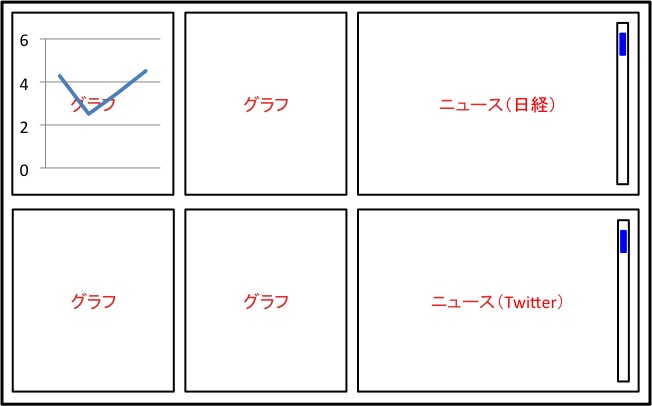
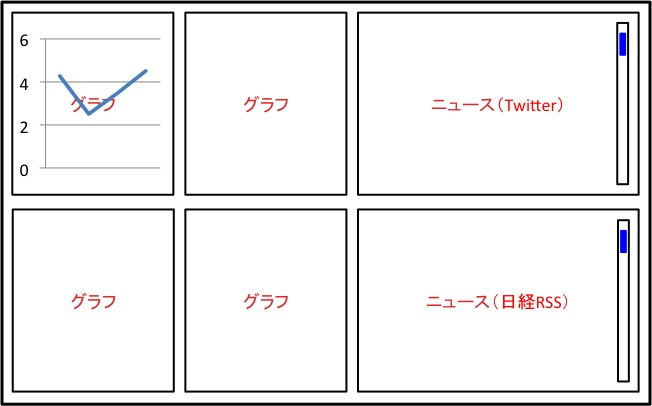
modify spec

Changed region(s): [[0.6748, 0.7094, 0.8896, 0.7685], [0.6442, 0.2365, 0.8589, 0.2956]]

diff --git a/regulus/sphinx/internal.rst b/regulus/sphinx/internal.rst
@@ -3,8 +3,8 @@
 
 - システムの詳細な振る舞いと構造を記載する
 
-   - `振る舞い <http://localhost:8080/regulus_docs/internal.html#id2>`__
-   - `構造 <http://localhost:8080/regulus_docs/internal.html#id5>`__
+   - `振る舞い <http://localhost/regulus_docs/internal.html#id2>`__
+   - `構造 <http://localhost/regulus_docs/internal.html#id5>`__
 
 振る舞い
 --------
@@ -13,7 +13,6 @@
 ^^^^^^^^^^^^^^^^^^^^^^^^
 
 シーケンス図
-            
 
 .. image:: images/seq_graph_int.jpg
    :alt: シーケンス図(通貨の価格変動を確認する)
@@ -22,7 +21,7 @@
 
    1. アクセスを受けたConfirmation\_viewがConfirmation\_Controllerにアクセスの受信を通知する
    2. 受信したConfirmation\_Controllerが通貨取得を開始する
-   3. Currencyオブジェクトを取得して返す
+   3. Currencyオブジェクトの配列を取得して返す
    4. ビューにグラフを表示する
    5. 以降は定期的に通貨情報の取得を繰り返す
 
@@ -30,7 +29,6 @@
 ^^^^^^^^^^^^^^^^^^^^^^^^^^^^
 
 シーケンス図
-            
 
 .. image:: images/seq_info_int.jpg
    :alt: シーケンス図(変動に関連する情報を取得する)
@@ -48,7 +46,6 @@
 ----
 
 クラス図
-        
 
 .. image:: images/class_int.jpg
    :alt: クラス図

diff --git a/regulus/sphinx/external.rst b/regulus/sphinx/external.rst
@@ -3,8 +3,8 @@
 
 -  システムの振る舞いと構造を記載する
 
-   -  `振る舞い <http://localhost:8080/regulus_docs/external.html#id2>`__
-   -  `構造 <http://localhost:8080/regulus_docs/external.html#id5>`__
+   -  `振る舞い <http://localhost/regulus_docs/external.html#id2>`__
+   -  `構造 <http://localhost/regulus_docs/external.html#id5>`__
 
 振る舞い
 --------
@@ -20,7 +20,7 @@
 - 利用者がWebページにアクセスしてからグラフを確認するまでの流れ
 
    1. ブラウザにURLを入力してシステムにアクセス
-   2. システムがDBから通貨情報を取得する
+   2. システムがDBから通貨情報を取得
    3. 取得した通貨情報からグラフを作成
    4. 作成したグラフをブラウザに表示
 
@@ -65,13 +65,9 @@
 
 - Controller
 
-   - 通貨管理
+   - コントローラ
 
-      - FXサイトから取得した通貨情報を管理するためのクラス
-
-   - 情報管理
-
-      - Twitterや日経から取得した情報を管理するためのクラス
+      - 必要な通貨情報，ツイート，記事を取得してブラウザ送信するするためのクラス
 
 - Model
 

diff --git a/regulus/sphinx/interface.rst b/regulus/sphinx/interface.rst
@@ -12,19 +12,19 @@
 機能
 ----
 
--  ブラウザの左側に４種類の通貨のグラフが表示される
+-  ブラウザの左側に３種類の通貨のグラフが表示される
 
    -  表示される通貨の種類は固定
    -  定期的にグラフが更新される
 
--  ブラウザの右上に日経から得られた情報が表示される
-
-   -  スクロールさせることで古い情報も閲覧可能
-   -  閲覧できる情報の数は固定
-
--  ブラウザの右下にTwitterから取得したツイートが表示される
+-  ブラウザの右上にTwitterから取得したツイートが表示される
 
    -  スクロールさせることで古いツイートも閲覧可能
    -  閲覧できるツイートの数は固定
+
+-  ブラウザの右下に日経から取得した情報が表示される
+
+   -  スクロールさせることで古い情報も閲覧可能
+   -  閲覧できる情報の数は固定
 
 -  ブラウザ全体をスクロールさせることはできない
